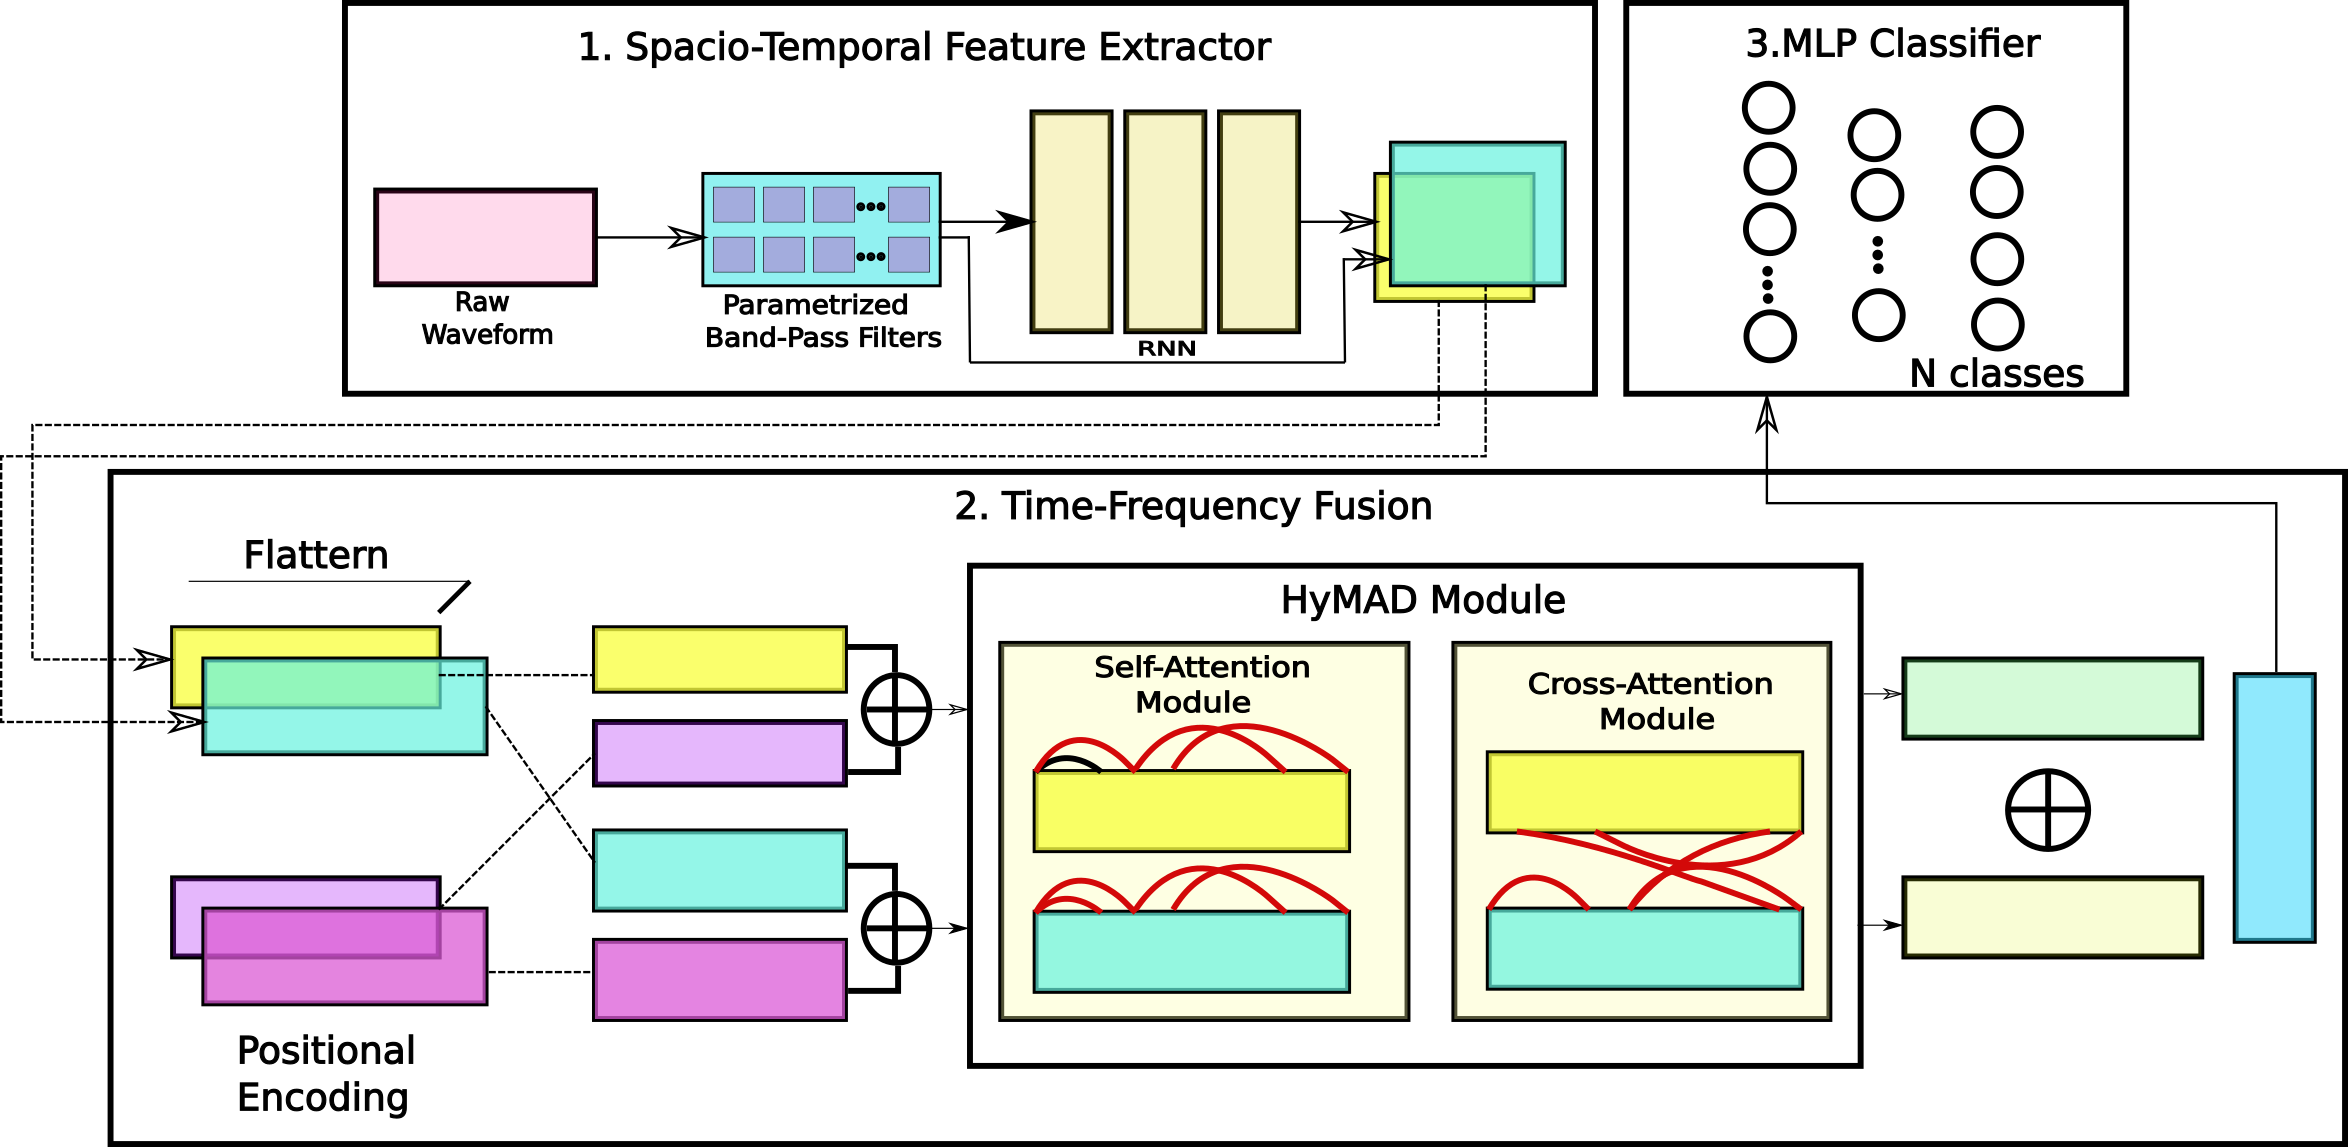
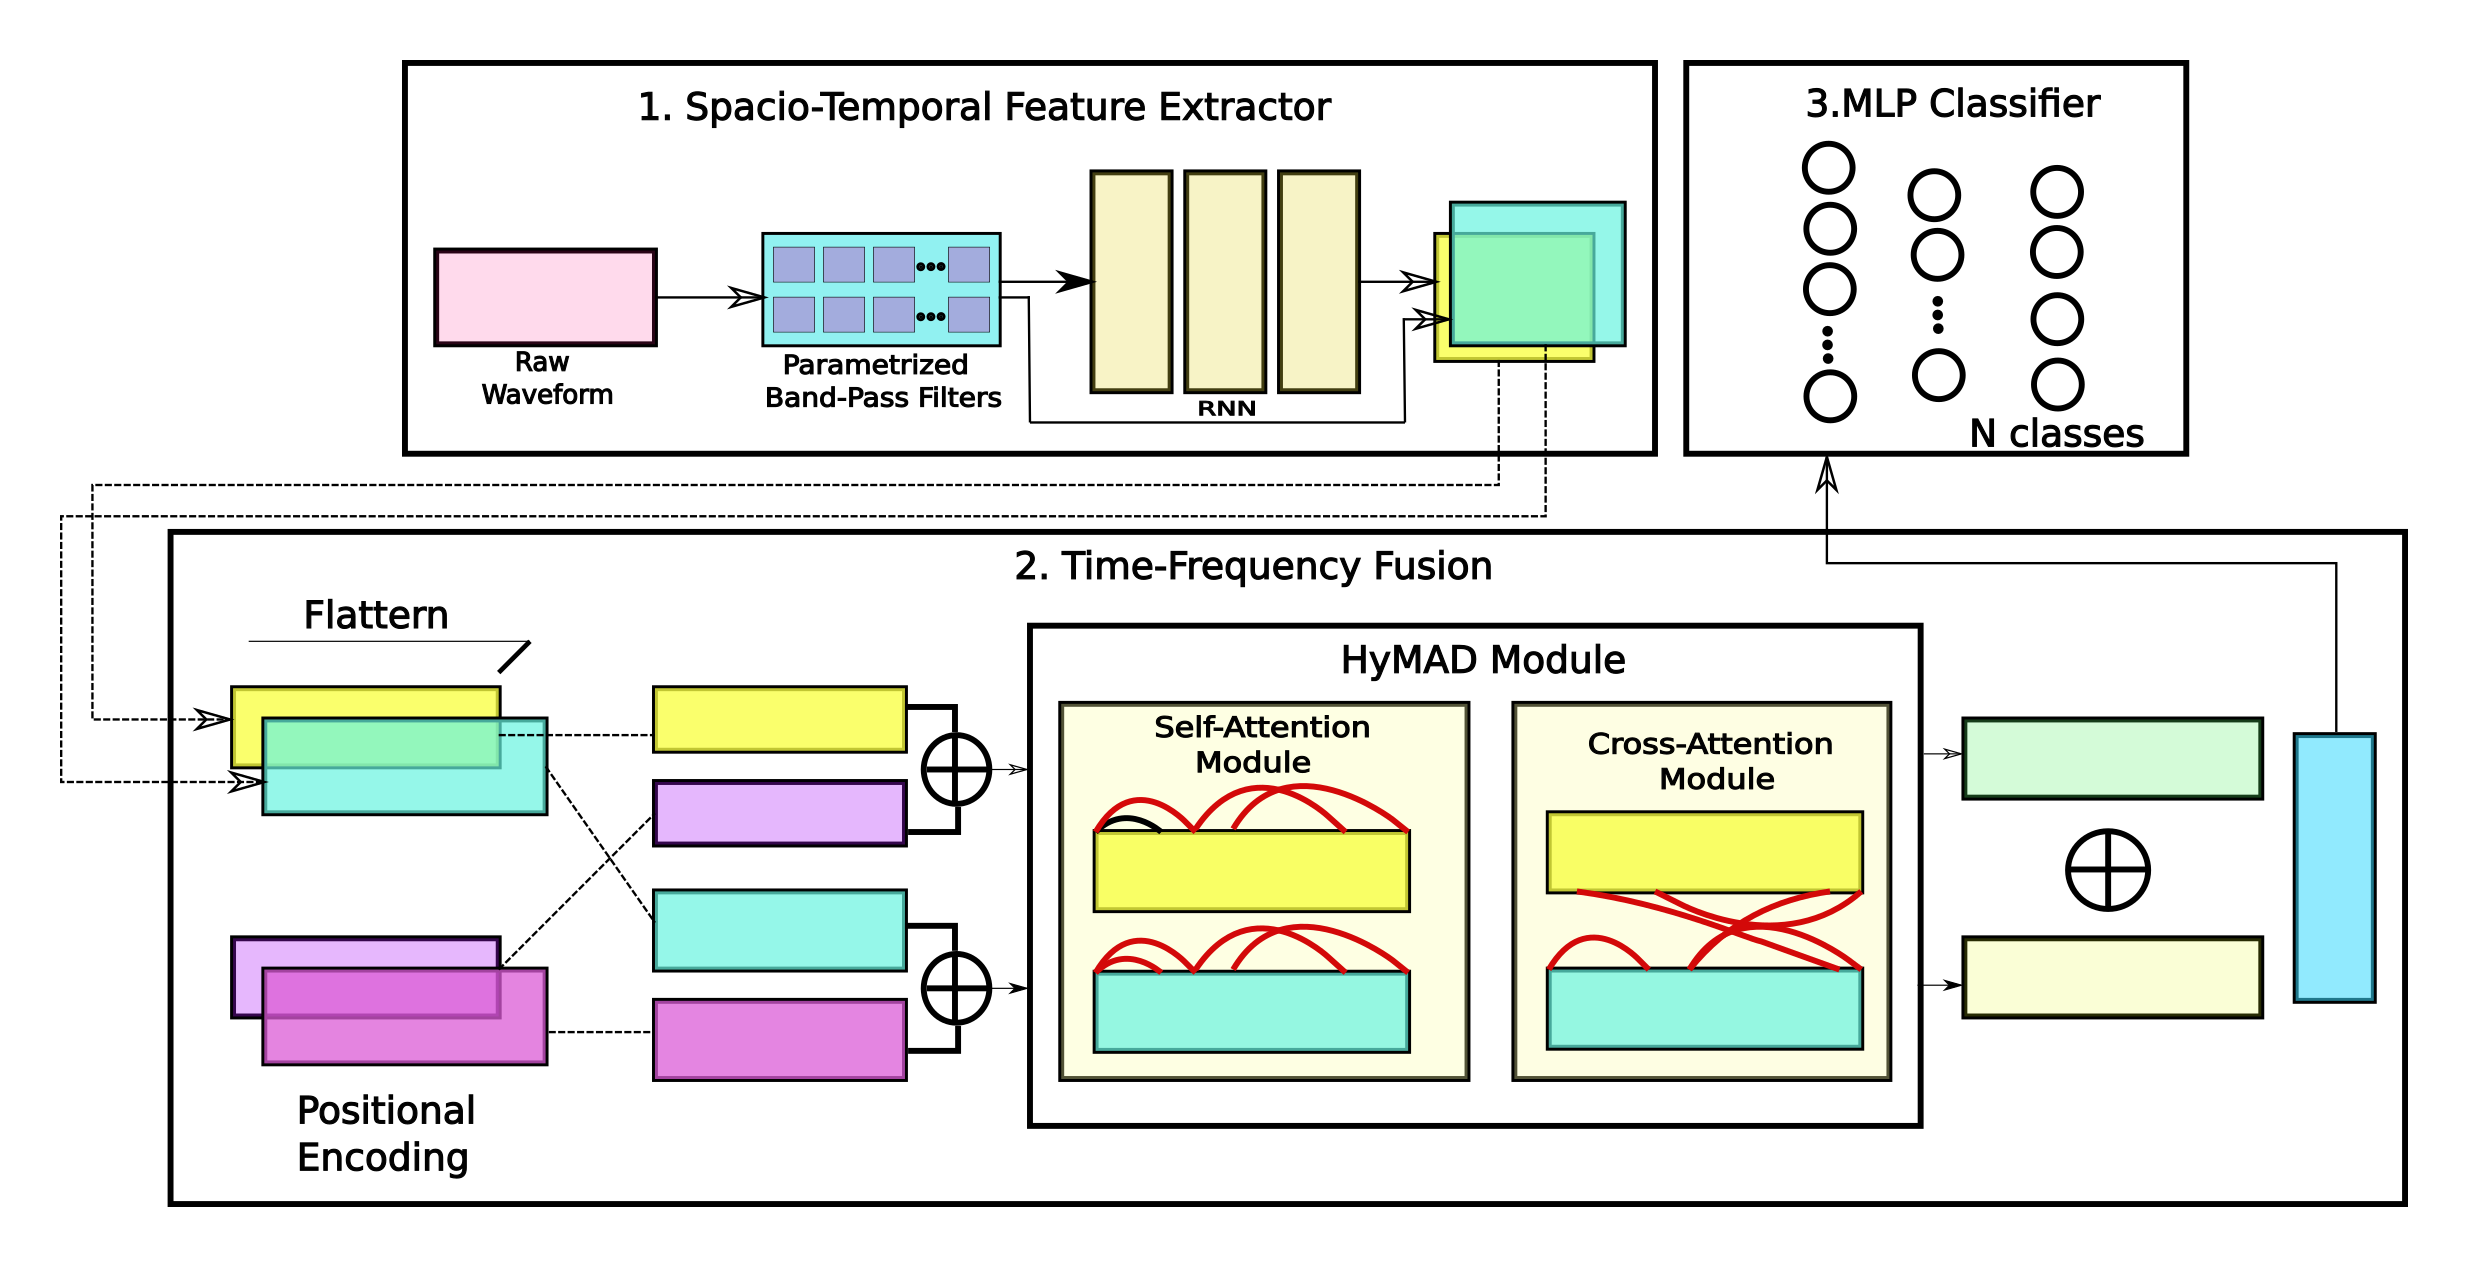
Update README, fix architecture image padding, update gitignore

Changed region(s): [[0.0, 0.0, 1.0, 1.0]]

diff --git a/README.md b/README.md
@@ -1,4 +1,4 @@
-# HyMAD — Hybrid Multi-Activity Detection
+# HyMAD: Hybrid Multi-Activity Detection
 
 > **Multi-label seismic activity classification from raw waveforms under full spectral overlap**
 
@@ -10,7 +10,7 @@
 
 ## Overview
 
-Detecting concurrent seismic activities (e.g., a human intruder alongside a moving vehicle) is substantially harder than single-event classification because both activities share the same frequency band — standard spectral decomposition cannot separate them. HyMAD addresses this by fusing a learnable frequency encoder (SincNet) with an LSTM temporal encoder through a **bidirectional cross-attention** mechanism, enabling joint spectral–temporal reasoning over spectrally overlapping signals.
+Detecting concurrent seismic activities (e.g., a human intruder alongside a moving vehicle) is substantially harder than single-event classification because both activities share the same frequency band. Standard spectral decomposition cannot separate them. HyMAD addresses this by fusing a learnable frequency encoder (SincNet) with an LSTM temporal encoder through a **bidirectional cross-attention** mechanism, enabling joint spectral-temporal reasoning over spectrally overlapping signals.
 
 **Key result:** HyMAD achieves **96.5% F1 / 94.0% exact match** on a full-spectral-overlap benchmark, outperforming the strongest raw-waveform baseline (CNN-1D) by **28.0%** on concurrent-activity samples where both activities must be jointly detected.
 
@@ -22,9 +22,9 @@ Detecting concurrent seismic activities (e.g., a human intruder alongside a movi
 
 The pipeline has three stages:
 
-1. **Spatio-Temporal Feature Extractor** — SincNet (40 bandpass filters, kernel=251, mel-scale initialized in [20–500] Hz) extracts interpretable spectral features from the raw waveform, which are downsampled to 64 time steps and fed into a 3-layer LSTM to capture temporal dynamics.
-2. **Time-Frequency Fusion (HyMAD Module)** — Both the SincNet and LSTM outputs receive positional encodings and pass through their own self-attention blocks. A bidirectional cross-attention module then lets the frequency stream attend to the temporal stream and vice versa, with the two outputs mean-pooled and concatenated into a 256-dim representation.
-3. **MLP Classifier** — A two-layer MLP (256 → 128 → 4) with sigmoid activation produces independent probability scores for each activity class.
+1. **Spatio-Temporal Feature Extractor:** SincNet (40 bandpass filters, kernel=251, mel-scale initialized in [20-500] Hz) extracts interpretable spectral features from the raw waveform, which are downsampled to 64 time steps and fed into a 3-layer LSTM to capture temporal dynamics.
+2. **Time-Frequency Fusion (HyMAD Module):** Both the SincNet and LSTM outputs receive positional encodings and pass through their own self-attention blocks. A bidirectional cross-attention module then lets the frequency stream attend to the temporal stream and vice versa, with the two outputs mean-pooled and concatenated into a 256-dim representation.
+3. **MLP Classifier:** A two-layer MLP (256 to 128 to 4) with sigmoid activation produces independent probability scores for each activity class.
 
 224K parameters total.
 
@@ -101,7 +101,12 @@ python train.py                   # saves to runs/HyMAD/
 python train.py --exp my_run      # custom experiment name
 ```
 
-The best checkpoint (lowest validation loss) is saved as `runs/<exp>/best_model.pth`. Training uses AdamW (lr=5×10⁻³, weight decay=10⁻⁴), batch size 256, 400 epochs with 15% linear warmup followed by cosine decay.
+The best checkpoint (lowest validation loss) is saved as `runs/<exp>/best_model.pth`. Training uses AdamW (lr=5x10^-3, weight decay=10^-4), batch size 256, 400 epochs with 15% linear warmup followed by cosine decay.
+
+To resume interrupted training:
+```bash
+python train.py --exp my_run --resume
+```
 
 ---
 
@@ -112,7 +117,7 @@ python inference.py               # evaluates runs/HyMAD/best_model.pth
 python inference.py --exp my_run  # custom experiment
 ```
 
-Outputs: per-class classification report, confusion matrices, ROC curves, and precision–recall curves saved under `runs/<exp>/`.
+Outputs: per-class classification report, confusion matrices, ROC curves, and precision-recall curves saved under `runs/<exp>/`.
 
 ---
 
@@ -120,6 +125,7 @@ Outputs: per-class classification report, confusion matrices, ROC curves, and pr
 
 ```bash
 python ablations/run_ablations.py
+python ablations/run_ablations.py --resume   # resume interrupted run
 ```
 
 Runs ablation variants: full HyMAD, no RNN, no self-attention, unidirectional cross-attention, naive fusion (concatenation), and Conv1D front-end (SincNet replaced with standard Conv1d).
@@ -152,7 +158,7 @@ HyMAD/
 ├── data_realism.py            # Dataset generation: superimposes single-activity recordings
 ├── model/
 │   ├── model.py               # SincNetRNN (full HyMAD)
-│   ├── sincnet.py             # SincConv1D with data-driven initialization
+│   ├── sincnet.py             # SincConv1D with mel-scale initialization
 │   ├── transformer.py         # SelfAttention, CrossAttention
 │   └── positional_encoding.py
 ├── dataset/